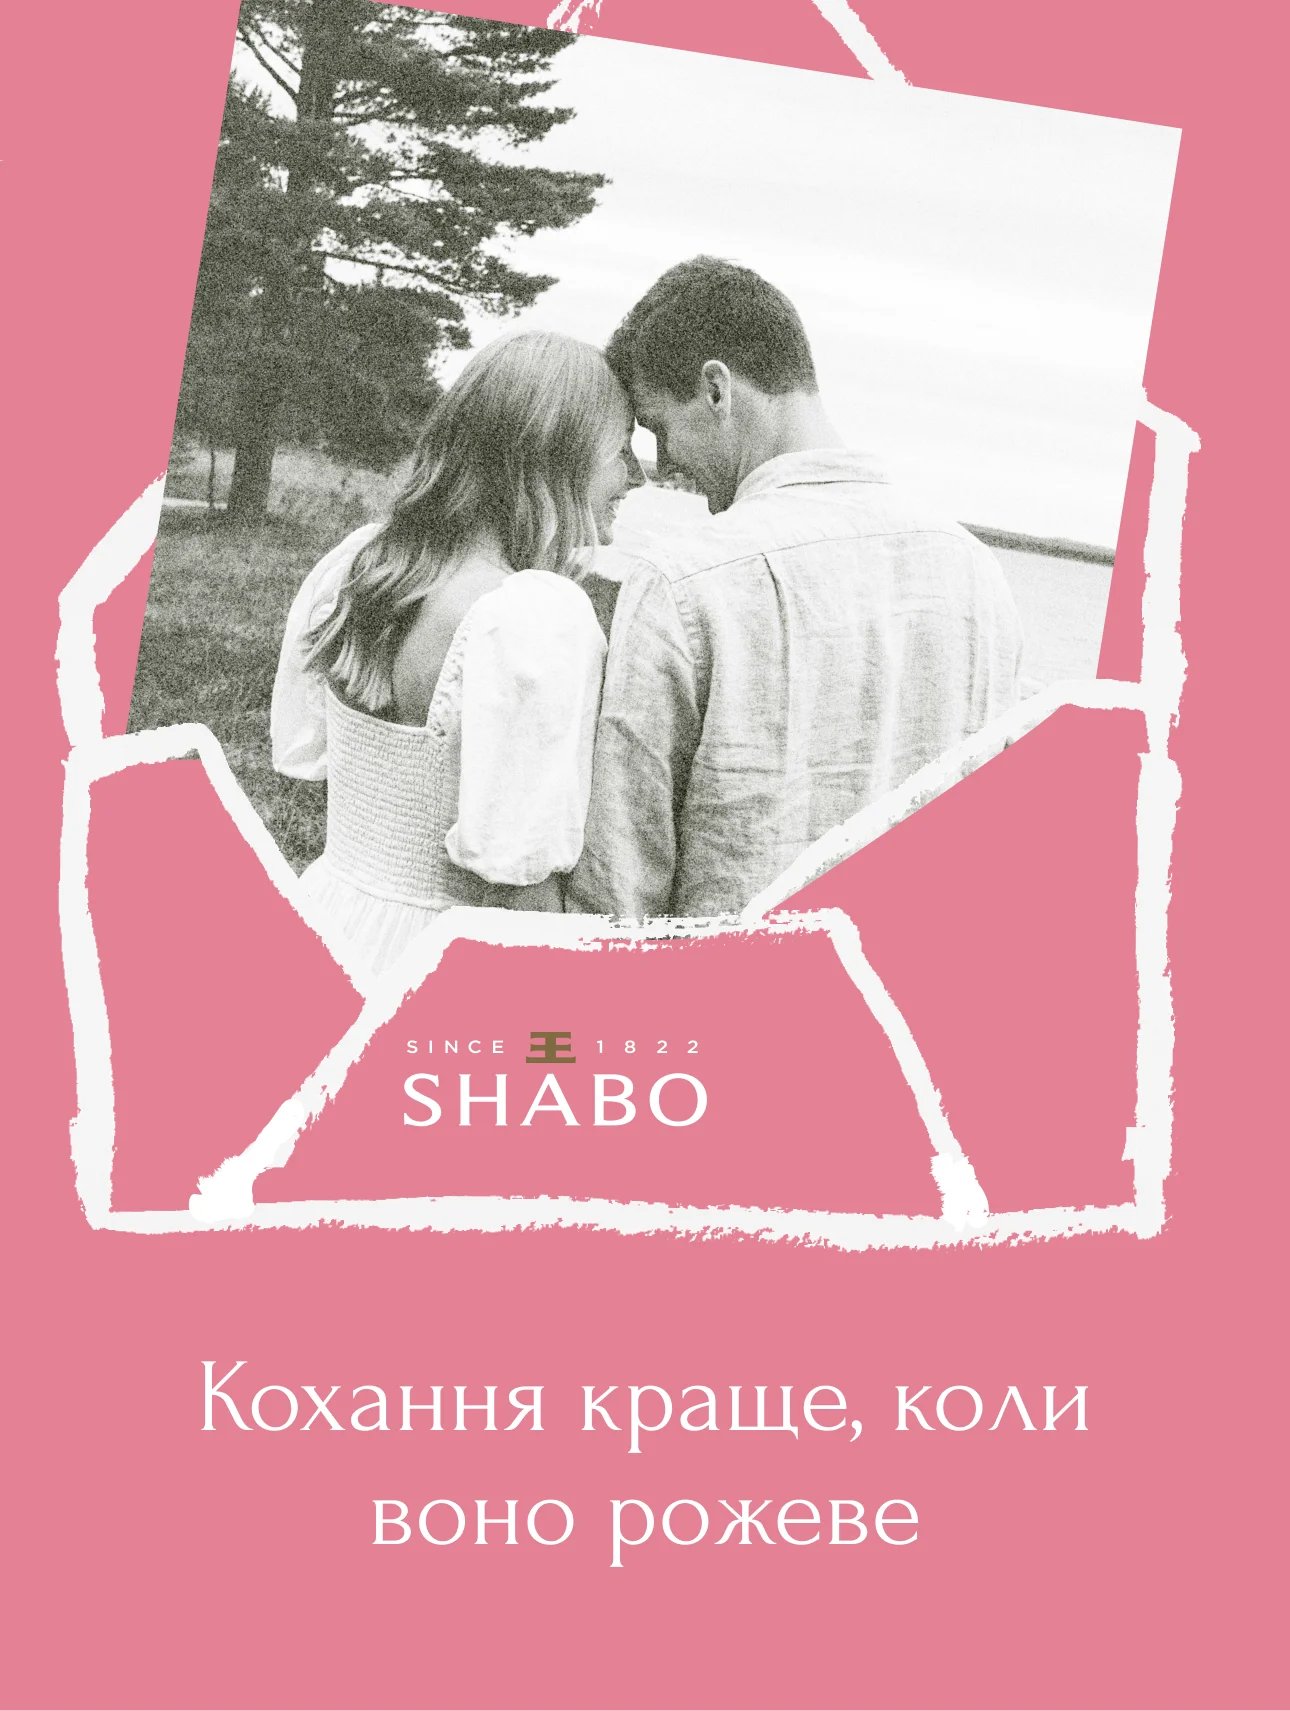
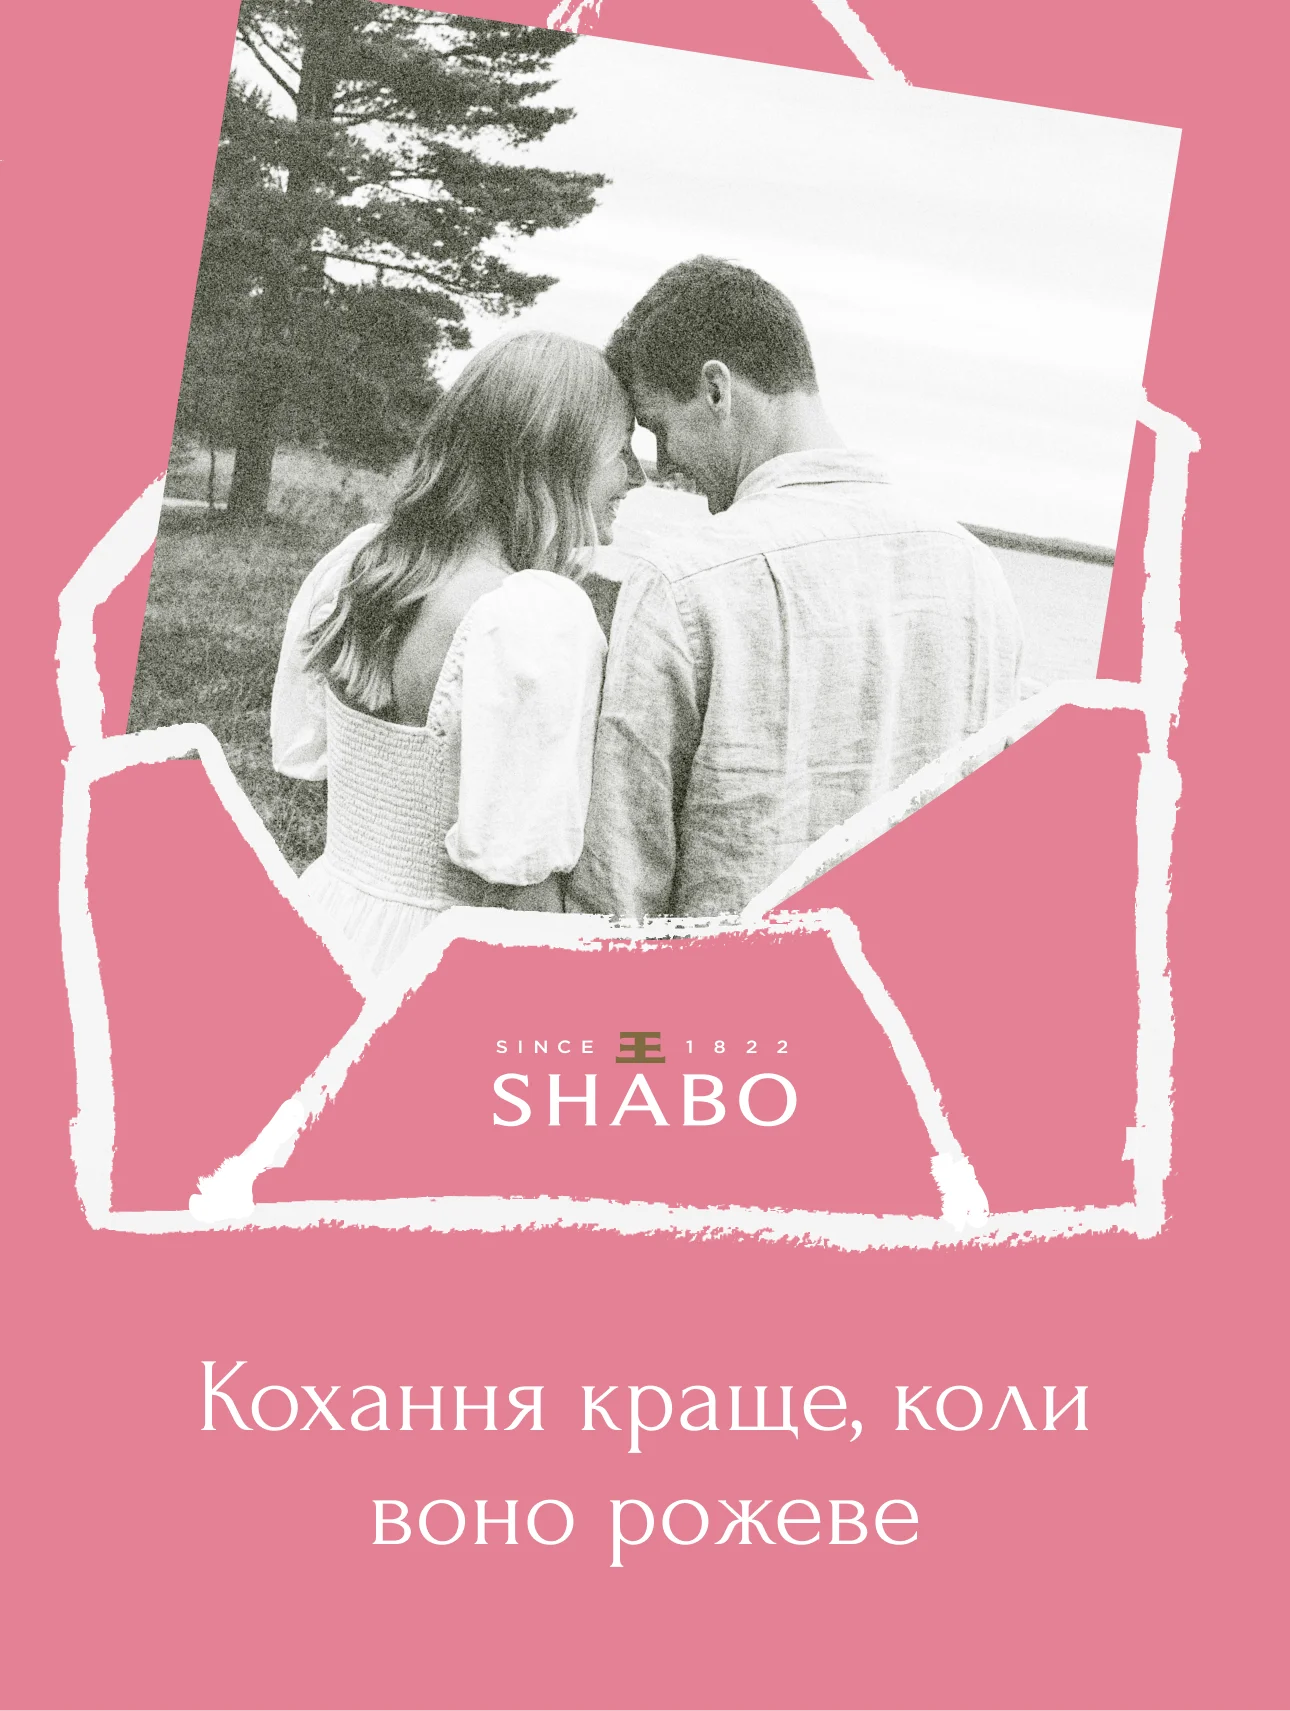
Shabo page: reorder/trim concept 2 slides, update pair slide, centred envelope

Changed region(s): [[0.3101, 0.5885, 0.6202, 0.6815]]

diff --git a/src/components/ShaboSections.tsx b/src/components/ShaboSections.tsx
@@ -373,7 +373,8 @@ function PostCarousel({ slides, alt, autoplay = false, meta }: { slides: PostSli
 // All layers share one coordinate space of 1134×1375 (open envelope, incl. shadows).
 const ENV = { w: 1134, h: 1375, hinge: 594 };
 // Whole composition (envelope + confetti flying out to the right / above), same units as ENV.
-const ENV_COMP = { w: 1881, h: 1520, top: 145 };
+// The envelope stays centred (it never moves); the confetti scatters on both sides of it.
+const ENV_COMP = { w: 2180, h: 1520, top: 145, left: 523 };
 // New card (with the two gold stars) and its position inside the envelope box.
 const ENV_CARD = { x: 103, y: 81, w: 950, h: 670 };
 // Confetti pieces [file, x, y, w, h] in ENV units; they scatter out of the envelope mouth when it opens.
@@ -410,6 +411,10 @@ const ENV_CONFETTI: [string, number, number, number, number][] = [
   ["c15", 1075, 394, 52, 52],
 ];
 const ENV_MOUTH = { x: 560, y: 330 };
+const ENV_CONFETTI_POS = ENV_CONFETTI.map(([n, x, y, w, h], i) => {
+  const nx = x > ENV.w ? ENV.w + (x - ENV.w) * 0.7 : x;
+  return [n, i % 2 ? ENV.w - nx - w : nx, y, w, h] as [string, number, number, number, number];
+});
 const ENV_DIR = "/images/works/shabo/envelope";
 const pct = (v: number, total: number) => `${(v / total) * 100}%`;
 const envBox = (x: number, y: number, w: number, h: number): React.CSSProperties => ({
@@ -451,14 +456,14 @@ function EnvelopeCard({ show, alt }: { show: boolean; alt: string }) {
       <div
         className="absolute"
         style={{
-          left: 0,
+          left: pct(ENV_COMP.left, ENV_COMP.w),
           top: pct(ENV_COMP.top, ENV_COMP.h),
           width: pct(ENV.w, ENV_COMP.w),
           height: pct(ENV.h, ENV_COMP.h),
           containerType: "inline-size",
           perspective: "2600px",
-          // closed: the envelope sits centred in the composition; opening slides it left to make room for the confetti
-          transform: open ? "translate(0, 0)" : `translate(${((ENV_COMP.w - ENV.w) / 2 / ENV.w) * 100}%, -21%)`,
+          // the envelope never moves sideways; closed it only sits a little higher
+          transform: open ? "translate(0, 0)" : "translate(0, -21%)",
           transition: `transform 1100ms ${EASE} ${open ? 500 : 0}ms`,
         }}
       >
@@ -495,7 +500,7 @@ function EnvelopeCard({ show, alt }: { show: boolean; alt: string }) {
       >
         {img("card", ENV_CARD.w, ENV_CARD.h)}
       </div>
-      {ENV_CONFETTI.map(([n, x, y, w, h], i) => {
+      {ENV_CONFETTI_POS.map(([n, x, y, w, h], i) => {
         // Deterministic pseudo-random delay and spin per piece, so it looks scattered rather than choreographed.
         const r1 = ((i * 37) % 100) / 100;
         const r2 = ((i * 61) % 100) / 100;

diff --git a/src/app/shabo/page.tsx b/src/app/shabo/page.tsx
@@ -47,18 +47,16 @@ const SECTIONS: ShaboSection[] = [
       "/images/works/shabo/post-2b-video-1.webm",
       "/images/works/shabo/post-2b-video-2.webm",
       "/images/works/shabo/post-2b-video-3.webm",
-      ...[1, 2, 4, 7, 9, 11, 12].map((n) => `/images/works/shabo/post-2b-slide-${n}.webp`),
+      ...[2, 4, 7, 9, 12].map((n) => `/images/works/shabo/post-2b-slide-${n}.webp`),
     ],
     meta: [
       { music: "AURORA, Runaway", caption: "Подарунок, який говорить замість слів. Вино з історією з 1822 року для найближчих людей." },
       { music: "Konstrakta, In corpore sano", caption: "Бульбашки, рожевий колір і ви двоє. Ігристе Shabo зробить 14 лютого по-справжньому святковим." },
       { music: "Christine and the Queens, Tilted", caption: "Влаштуйте побачення вдома: вино Shabo, тиха музика і вечір лише для вас двох. З Днем закоханих!" },
-      { music: "Sigrid, Don't Kill My Vibe", caption: "Рожеве вино для вечора, коли слова зайві. Подаруйте собі й коханій людині 14 лютого шабівський настрій." },
       { music: "Poli Genova, If Love Was a Crime", caption: "Кохання краще, коли воно рожеве. Natural Rosé Limited Edition вже чекає на вас." },
       { music: "Édith Piaf, La Vie en rose", caption: "Не знаєте, що подарувати на День святого Валентина? Пляшка Шабо завжди скаже «люблю»." },
       { music: "Robyn, Dancing On My Own", caption: "Кохання як хороше вино: з часом лише краще. Привітайте свою половинку з Днем святого Валентина." },
       { music: "MØ, Final Song", caption: "Два келихи, одна історія. Ігристе рожеве Shabo Special Edition для тих, хто святкує кохання щодня." },
-      { music: "Equinox, Bones", caption: "Серце, яке б'ється для вас. З Днем святого Валентина від SHABO — з любов'ю з 1822 року." },
       { music: "Stromae, Alors on danse", caption: "Любов — це шабівський настрій. Natural Rosé Limited Edition до Дня святого Валентина." },
     ],
   },
